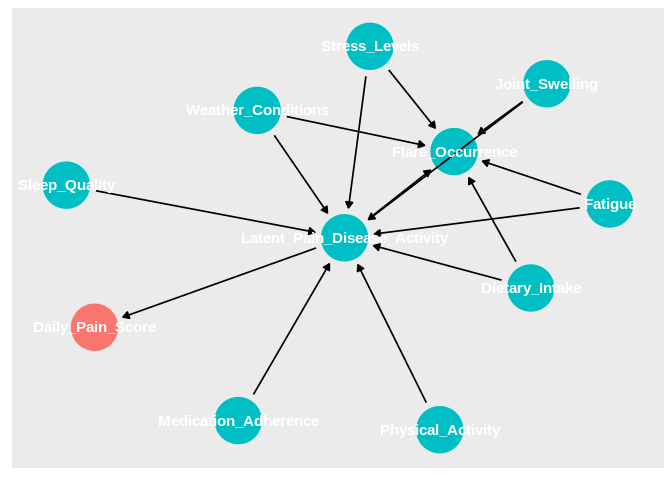
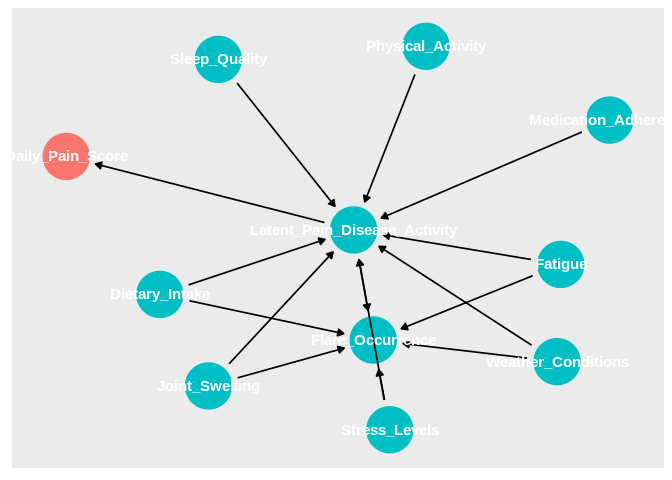
Simple example

diff --git a/README.md b/README.md
@@ -60,6 +60,109 @@ Synthetic data for hackathon.
 - Shoei is looking after GitHub page with resources. So can share as web
   app or R package.
 
+## Naïve simulation
+
+``` r
+simulate_patient <- function(days = 180) {
+    set.seed(123)  # For reproducibility
+    flare_days <- integer(0)  # Initialize vector to record flare days
+    treatment_days <- integer(0)  # Initialize vector to record treatment days
+    
+    # Define states
+    states <- c("low", "medium", "high")
+    
+    # Transition probabilities
+    trans_probs <- matrix(c(
+        0.8, 0.15, 0.05,  # low -> low, medium, high
+        0.1, 0.8, 0.1,    # medium -> low, medium, high
+        0.05, 0.15, 0.8   # high -> low, medium, high
+    ), nrow = 3, byrow = TRUE)
+    
+    # Pain levels associated with each state
+    pain_levels <- list(
+        low = 0:3,
+        medium = 4:7,
+        high = 8:10
+    )
+    
+    # Initialize state and pain
+    current_state <- sample(states, 1, prob = c(0.4, 0.4, 0.2))
+    pain <- numeric(days)
+    state_history <- character(days)
+    
+    last_flare_day <- -21  # Initialize to a value more than 3 weeks before day 1
+    last_treatment_day <- -21  # Initialize to a value more than 3 weeks before day 1
+    
+    for (day in 1:days) {
+        # Record current state
+        state_history[day] <- current_state
+        
+        # Simulate pain based on current state
+        pain[day] <- sample(pain_levels[[current_state]], 1)
+        
+        # Randomly determine if a flare occurs, ensuring at least 3 weeks since last flare
+        if (day - last_flare_day >= 21 && runif(1) < 0.05) {  # 5% chance of flare
+            current_state <- "high"  # Flare pushes state to high
+            flare_days <- c(flare_days, day)  # Record flare day
+            last_flare_day <- day  # Update last flare day
+        }
+        
+        # Randomly determine if treatment occurs, ensuring at least 3 weeks since last treatment
+        if (day - last_treatment_day >= 21 && runif(1) < 0.1) {  # 10% chance of treatment
+            if (current_state == "high") {
+                current_state <- sample(c("medium", "low"), 1, prob = c(0.67, 0.33))  # Treatment pushes state to medium or low
+            } else if (current_state == "medium") {
+                current_state <- "low"  # Treatment pushes state to low
+            }
+            treatment_days <- c(treatment_days, day)  # Record treatment day
+            last_treatment_day <- day  # Update last treatment day
+        }
+        
+        # Transition to next state
+        current_state <- sample(states, 1, prob = trans_probs[states == current_state, ])
+    }
+    
+    return(list(pain = pain, states = state_history, flares = flare_days, treatments = treatment_days))
+}
+
+# Example usage
+simulation_result <- simulate_patient()
+pain_data <- simulation_result$pain
+state_data <- simulation_result$states
+```
+
+``` r
+# Convert state data to numeric for plotting
+state_numeric <- as.numeric(factor(state_data, levels = c("low", "medium", "high")))
+
+# Plotting
+par(mfrow = c(2, 1))  # Set up the plotting area to have 2 rows and 1 column
+
+# Define traffic light colors for states
+state_colors <- c("low" = "#8bc34a", "medium" = "#ffeb3b", "high" = "#f44336")
+
+# Plot pain data
+plot(pain_data, type = "l", main = "Simulated Pain Reports", xlab = "Day", ylab = "Pain Level", col = "grey")
+points(pain_data, col = state_colors[state_data], pch = 16)
+
+# Add vertical lines for flares and treatments
+# abline(v = simulation_result$flares, col = "red", lty = 2)  # Flares in blue dashed lines
+# abline(v = simulation_result$treatments, col = "green", lty = 2)  # Treatments in red dashed lines
+
+# Plot state data
+plot(state_numeric, type = "p", main = "Latent States Over Time", xlab = "Day", ylab = "State", yaxt = "n",
+    col = state_colors[state_data], pch = 16)
+axis(2, at = 1:3, labels = c("low", "medium", "high"))
+
+# Add vertical lines for flares and treatments
+abline(v = simulation_result$flares, col = "red", lty = 2)  # Flares in blue dashed lines
+abline(v = simulation_result$treatments, col = "green", lty = 2)  # Treatments in red dashed lines
+```
+
+![](README_files/figure-commonmark/simple%20plot-1.png)
+
+## DAG
+
 ``` r
 library(ggdag)
 library(ggplot2)
